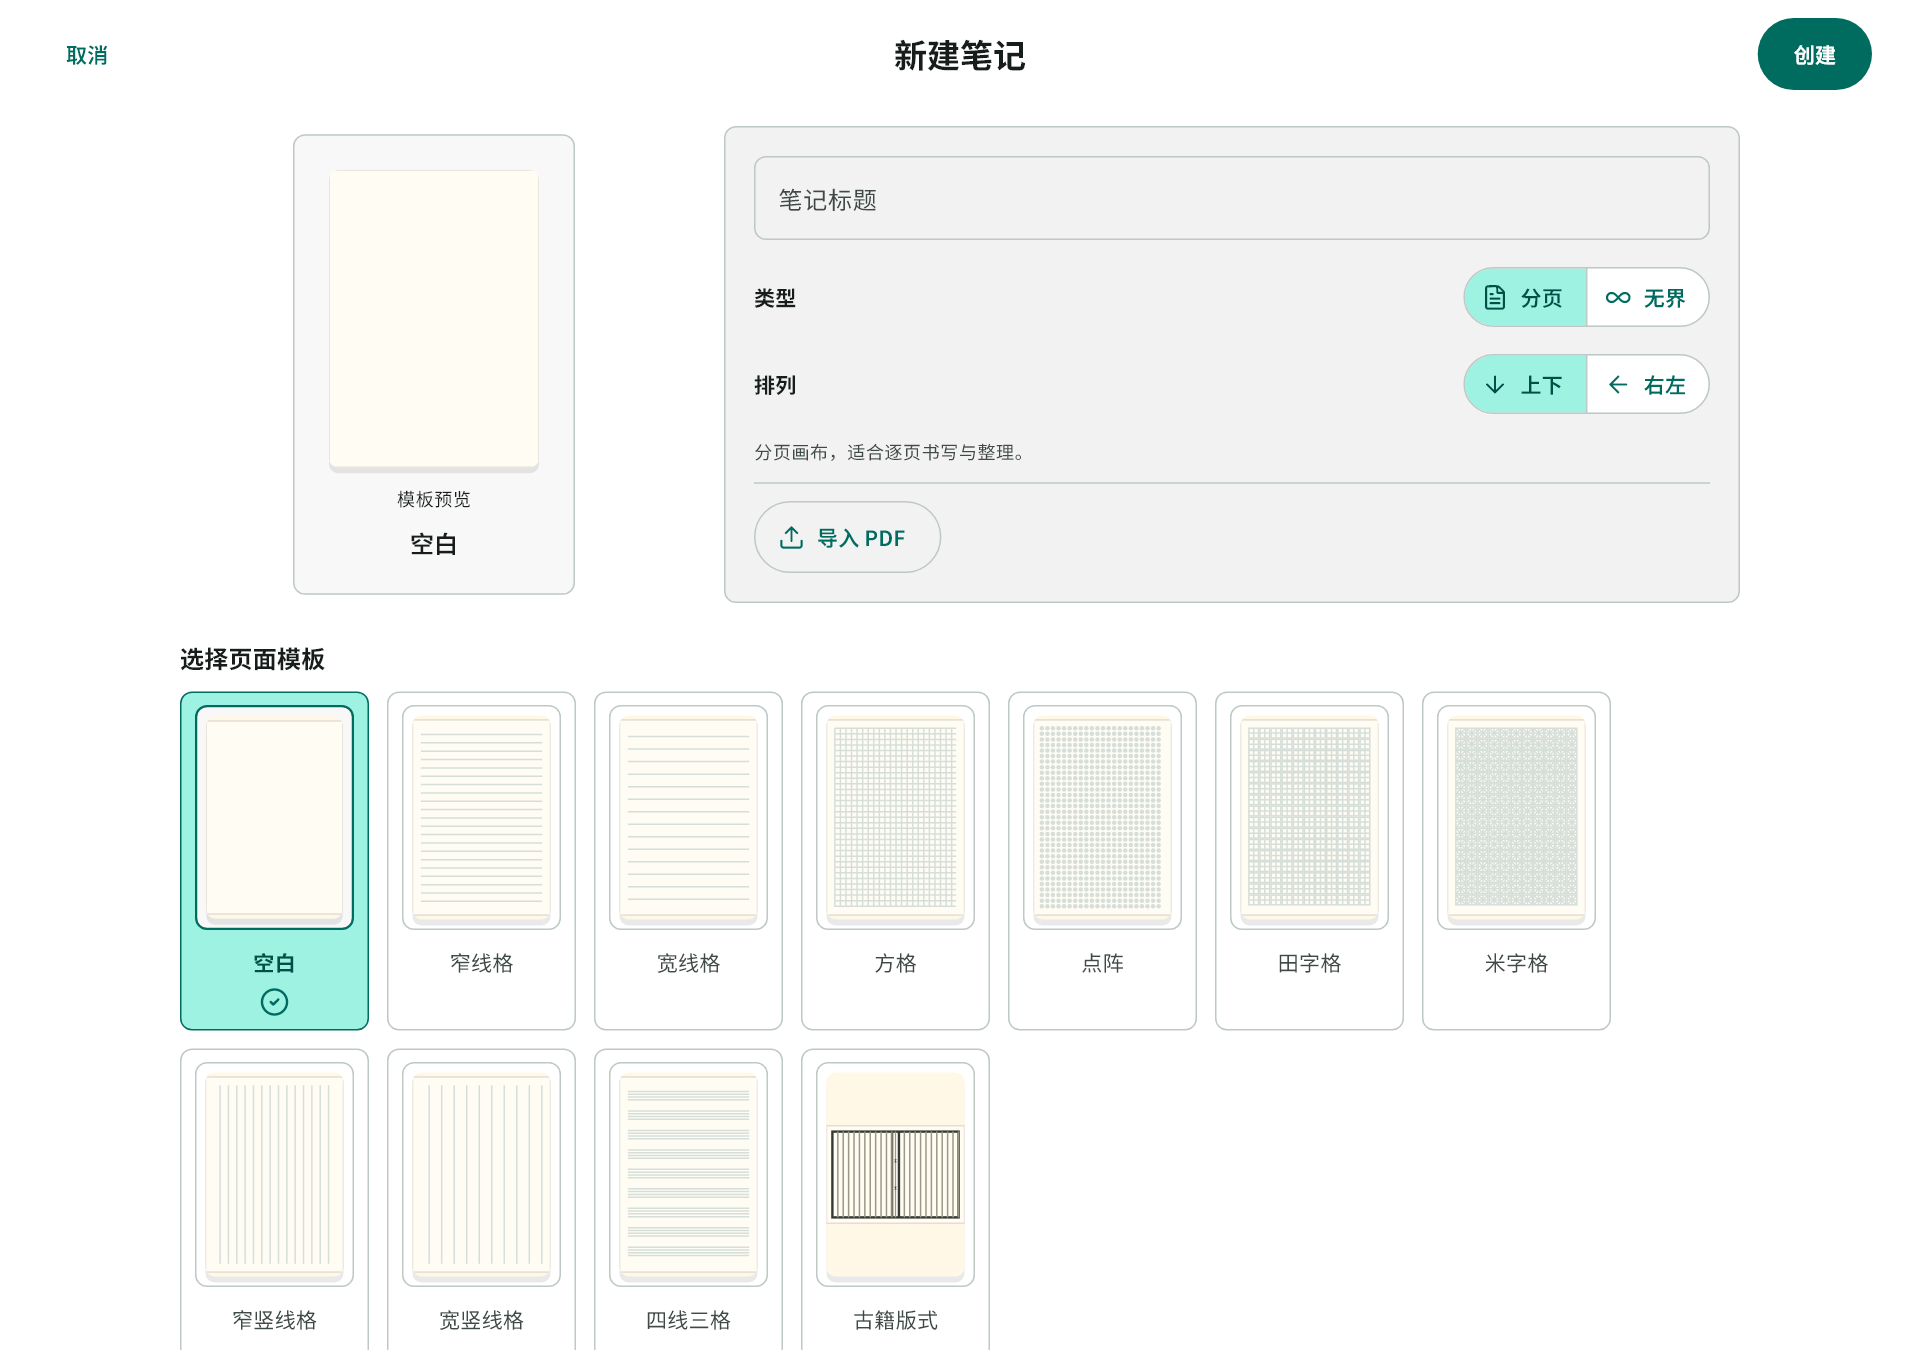
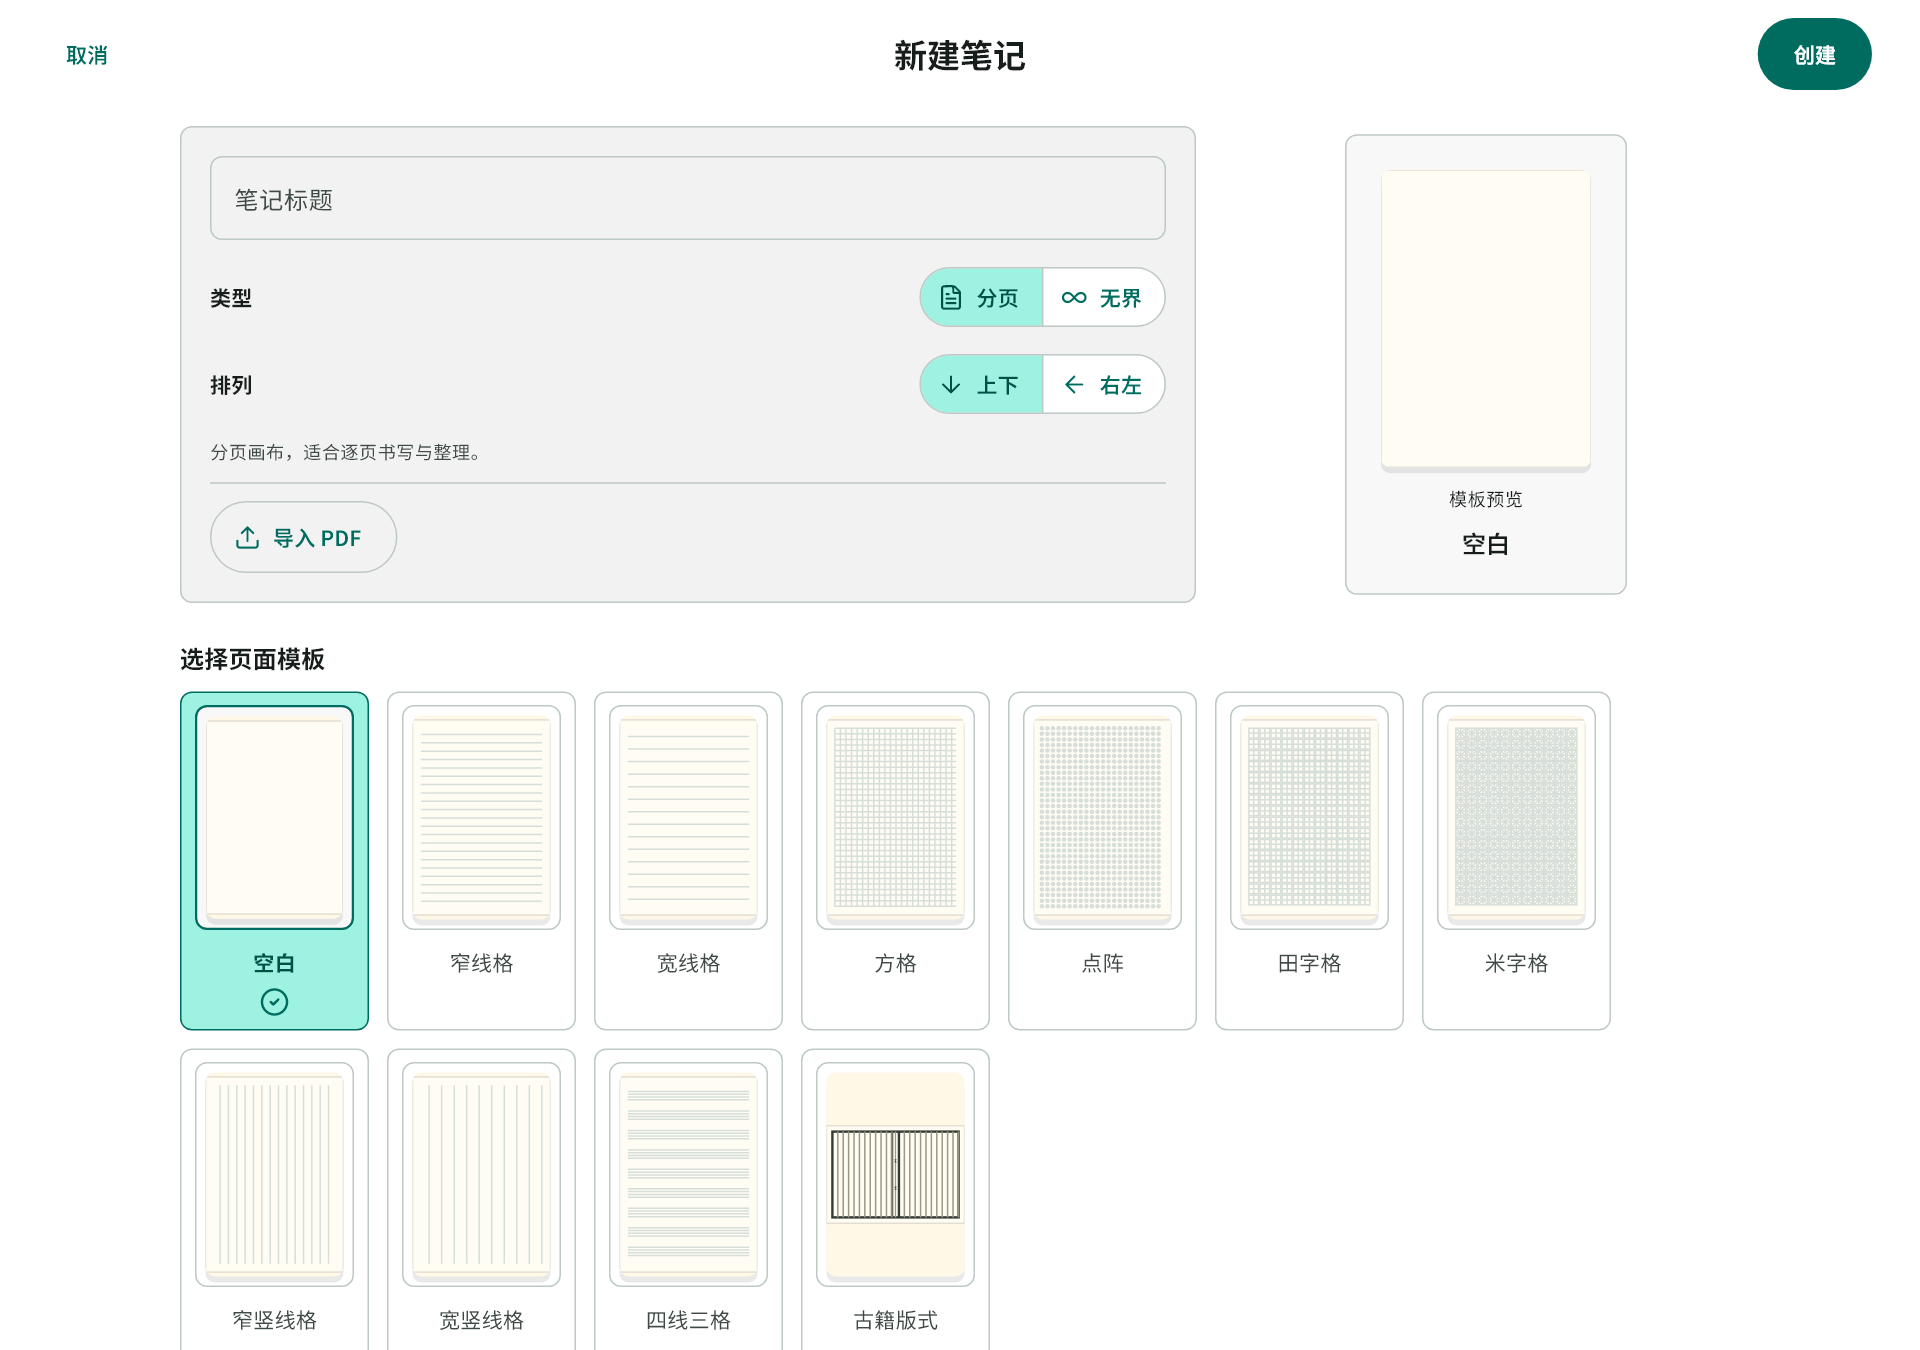
fix: 保留新建笔记跨断点布局时的输入连接

diff --git a/FlowMuse-App/lib/features/library/views/create_note_page.dart b/FlowMuse-App/lib/features/library/views/create_note_page.dart
@@ -274,20 +274,37 @@ class _CreateNotePageState extends ConsumerState<CreateNotePage> {
                     return Column(
                       crossAxisAlignment: CrossAxisAlignment.stretch,
                       children: [
-                        if (wide)
-                          Row(
-                            crossAxisAlignment: CrossAxisAlignment.center,
-                            children: [
-                              Expanded(child: Center(child: preview)),
-                              const SizedBox(width: AppSpacing.sectionGap),
-                              Expanded(flex: 2, child: setup),
-                            ],
-                          )
-                        else ...[
-                          setup,
-                          const SizedBox(height: AppSpacing.listGap),
-                          preview,
-                        ],
+                        // 跨断点保留表单元素，避免重建正在输入的文本连接。
+                        Flex(
+                          direction: wide ? Axis.horizontal : Axis.vertical,
+                          mainAxisSize: MainAxisSize.min,
+                          crossAxisAlignment: wide
+                              ? CrossAxisAlignment.center
+                              : CrossAxisAlignment.stretch,
+                          children: [
+                            SizedBox(
+                              width: wide
+                                  ? (constraints.maxWidth -
+                                            AppSpacing.sectionGap) *
+                                        2 /
+                                        3
+                                  : constraints.maxWidth,
+                              child: setup,
+                            ),
+                            SizedBox(
+                              width: wide ? AppSpacing.sectionGap : 0,
+                              height: wide ? 0 : AppSpacing.listGap,
+                            ),
+                            SizedBox(
+                              width: wide
+                                  ? (constraints.maxWidth -
+                                            AppSpacing.sectionGap) /
+                                        3
+                                  : constraints.maxWidth,
+                              child: Center(child: preview),
+                            ),
+                          ],
+                        ),
                         const SizedBox(height: AppSpacing.sectionGap),
                         const _SectionTitle(text: '选择页面模板'),
                         const SizedBox(height: AppSpacing.listGap),

diff --git a/FlowMuse-App/test/features/library/views/create_note_page_test.dart b/FlowMuse-App/test/features/library/views/create_note_page_test.dart
@@ -64,6 +64,31 @@ Widget _page({
 );
 
 void main() {
+  testWidgets('跨断点缩放窗口保留标题输入连接和焦点', (tester) async {
+    await tester.binding.setSurfaceSize(const Size(1280, 900));
+    addTearDown(() => tester.binding.setSurfaceSize(null));
+    await tester.pumpWidget(_page());
+    await tester.pumpAndSettle();
+    await tester.enterText(find.byType(TextField), '课堂');
+    final inputState = tester.state<EditableTextState>(
+      find.byType(EditableText),
+    );
+    await tester.binding.setSurfaceSize(const Size(360, 900));
+    await tester.pumpAndSettle();
+    expect(
+      tester.state<EditableTextState>(find.byType(EditableText)),
+      same(inputState),
+    );
+    expect(inputState.widget.focusNode.hasFocus, isTrue);
+    tester.testTextInput.enterText('课堂笔记');
+    await tester.pump();
+    expect(
+      tester.widget<TextField>(find.byType(TextField)).controller!.text,
+      '课堂笔记',
+    );
+    expect(tester.takeException(), isNull);
+  });
+
   for (final (width, scale, theme) in [
     (360.0, 1.0, AppThemeId.day),
     (360.0, 2.0, AppThemeId.night),

diff --git a/docs/研发记录/plans/2026-10-24-ui-polish-round-two.md b/docs/研发记录/plans/2026-10-24-ui-polish-round-two.md
@@ -18,10 +18,11 @@
 
 ## 验证结果
 
-- 既有相关基线 29 项通过；新增 10 项回归，覆盖模板、输入、处理中禁用与失败恢复、批量操作、设置分类及值变更、Escape 关闭、窄屏和 200% 字号。
-- 完整 Flutter 测试 1920 项通过、5 项既有跳过；`flutter analyze --no-pub` 无问题。
+- 既有相关基线 29 项通过；新增 11 项回归，覆盖模板、输入、处理中禁用与失败恢复、批量操作、设置分类及值变更、Escape 关闭、窄屏和 200% 字号。
+- 完整 Flutter 测试 1921 项通过、5 项既有跳过；`flutter analyze --no-pub` 无问题。
 - 加载真实 UI 字体和生产页面，生成并复核 8 张日间/夜间、桌面/窄屏及大字号预览。截图发现的大字号选项挤压和重复标题已修正，随后重新完成全量检查。
 - 未修改笔记卡片菜单位置、协作链路或墨迹渲染。尚未进行安卓/鸿蒙真机校准或 GPU 帧耗时测量。
+- release 浏览器检查发现输入后跨断点缩放会重建表单并触发旧输入连接异常。增加输入组件存活、焦点及继续输入的回归，在 `c8eaa44` 上失败；改为同一 Flex 容器切换方向后通过，桌面和手机均先展示配置，再展示预览。
 
 ![新建笔记桌面](../images/ui-round-two-create-desktop.png)
 ![新建笔记窄屏](../images/ui-round-two-create-mobile.png)
